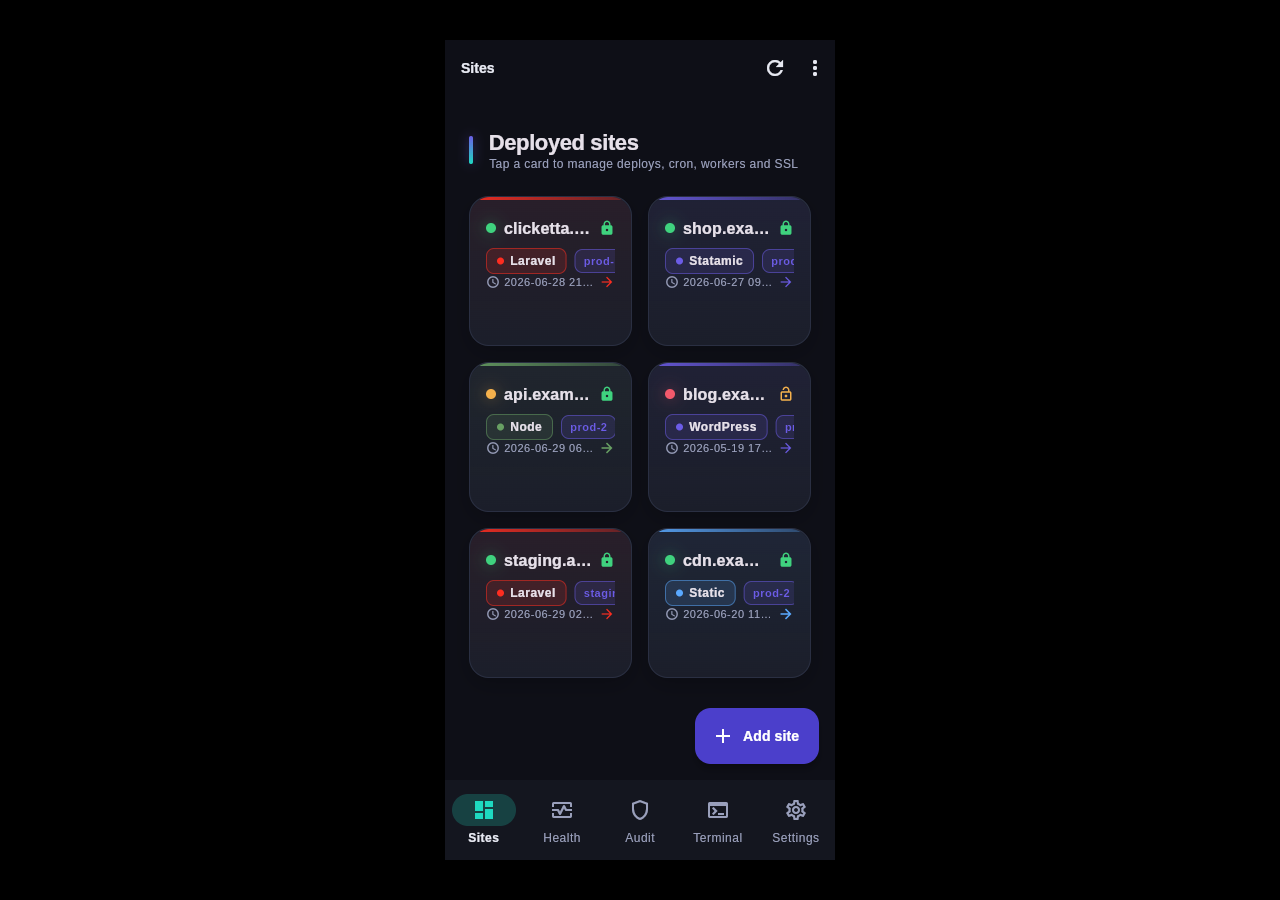
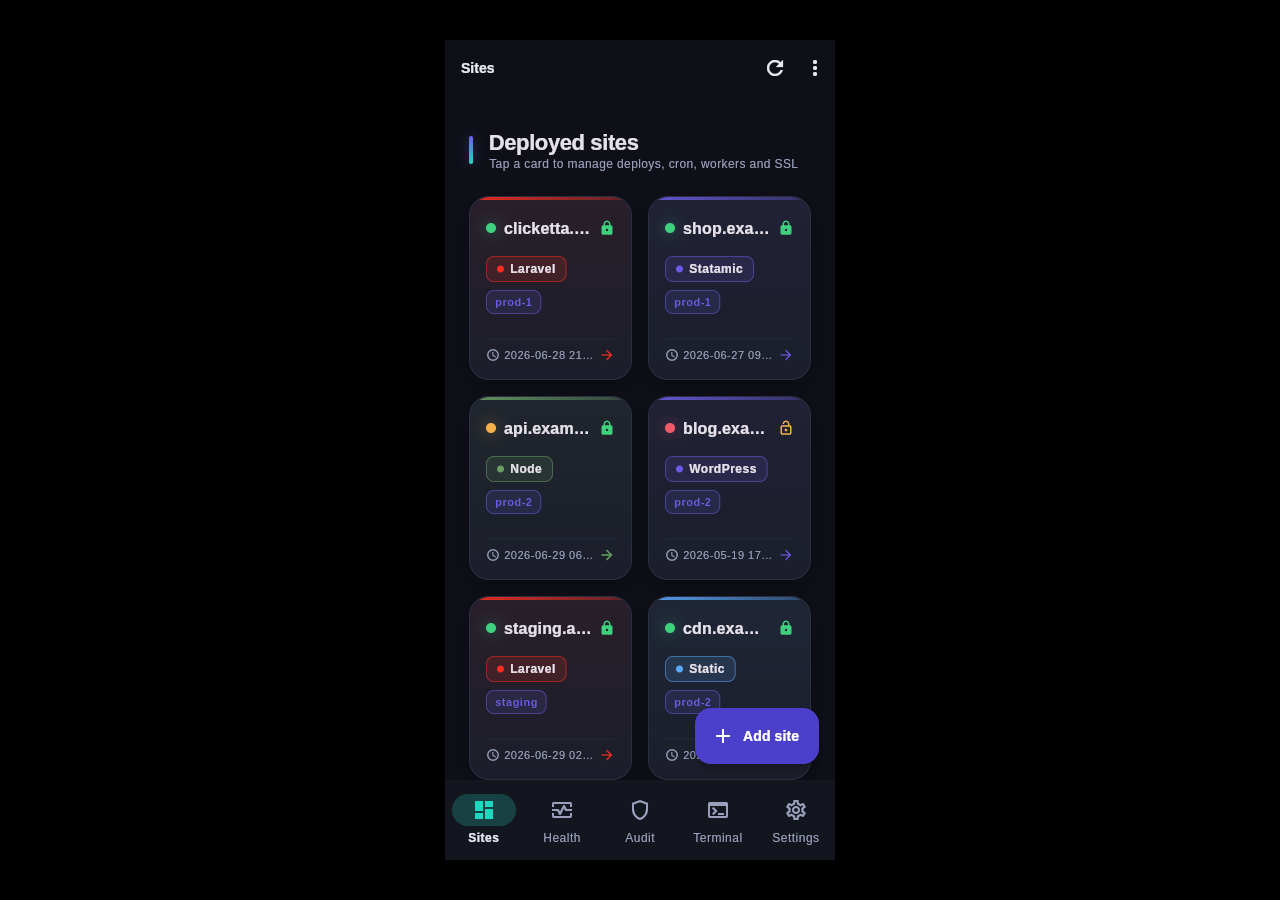
app: roomier dashboard cards (fix cramped phone layout)
The 2-up phone cards looked squished: a fixed 150px cell plus a scrolling
ChipRow that clipped the server pill off-edge. Give cells responsive height
(184 on phone, 158 elsewhere), let the framework + server chips wrap to a
second line instead of clipping, bolden the domain, and add a divider above
the last-deploy row for breathing room. Desktop keeps chips inline.

Claude-Session: https://claude.ai/code/session_014SAkRiggDwfXRUAhogKMJ4

Changed region(s): [[0.375, 0.2489, 0.6562, 0.84]]

diff --git a/app/lib/screens/dashboard_screen.dart b/app/lib/screens/dashboard_screen.dart
@@ -11,7 +11,6 @@ import '../theme/app_theme.dart';
 import '../theme/breakpoints.dart';
 import '../transport/cli_event.dart';
 import '../widgets/app_button.dart';
-import '../widgets/chip_row.dart';
 import '../widgets/framework_chip.dart';
 import '../widgets/glass_card.dart';
 import '../widgets/section_header.dart';
@@ -215,12 +214,14 @@ class _Grid extends StatelessWidget {
           itemCount: sites.length,
           // Fluidly reflows: cards cap at ~320px wide so a phone shows 2,
           // a tablet 3, and a wide desktop 4+ — resizing the window reflows
-          // and resizes cards continuously, with no fixed widths.
-          gridDelegate: const SliverGridDelegateWithMaxCrossAxisExtent(
+          // and resizes cards continuously, with no fixed widths. Phone cells
+          // are taller so the 2-up cards have vertical breathing room (chips
+          // can wrap) instead of cramming everything into a short box.
+          gridDelegate: SliverGridDelegateWithMaxCrossAxisExtent(
             maxCrossAxisExtent: kSiteCardMaxExtent,
             mainAxisSpacing: Insets.md,
             crossAxisSpacing: Insets.md,
-            mainAxisExtent: 150,
+            mainAxisExtent: context.isPhone ? 184 : 158,
           ),
           itemBuilder: (BuildContext context, int i) {
             // Entrances settle quickly so screenshots never catch mid-animation.
@@ -265,70 +266,80 @@ class _SiteCard extends StatelessWidget {
                 ),
               ),
             ),
-            Padding(
-              padding: const EdgeInsets.all(Insets.md),
-              child: Column(
-                crossAxisAlignment: CrossAxisAlignment.start,
-                children: <Widget>[
-                  Row(
-                    children: <Widget>[
-                      StatusDot(health: site.health),
-                      const SizedBox(width: Insets.sm),
-                      Expanded(
-                        child: Hero(
-                          tag: 'site-title-${site.domain}',
-                          child: Material(
-                            type: MaterialType.transparency,
-                            child: Text(
-                              site.domain,
-                              style: theme.textTheme.titleMedium,
-                              overflow: TextOverflow.ellipsis,
-                              maxLines: 1,
+            Expanded(
+              child: Padding(
+                padding: const EdgeInsets.all(Insets.md),
+                child: Column(
+                  crossAxisAlignment: CrossAxisAlignment.start,
+                  children: <Widget>[
+                    Row(
+                      children: <Widget>[
+                        StatusDot(health: site.health),
+                        const SizedBox(width: Insets.sm),
+                        Expanded(
+                          child: Hero(
+                            tag: 'site-title-${site.domain}',
+                            child: Material(
+                              type: MaterialType.transparency,
+                              child: Text(
+                                site.domain,
+                                style: theme.textTheme.titleMedium?.copyWith(
+                                  fontWeight: FontWeight.w700,
+                                ),
+                                overflow: TextOverflow.ellipsis,
+                                maxLines: 1,
+                              ),
                             ),
                           ),
                         ),
-                      ),
-                      const SizedBox(width: Insets.xs),
-                      _TlsBadge(tls: site.tls),
-                    ],
-                  ),
-                  const SizedBox(height: Insets.sm),
-                  // Scrollable so the framework + server chips never overflow
-                  // a narrow 2-up card; least-important chip slides off-edge.
-                  ChipRow(
-                    children: <Widget>[
-                      FrameworkChip(framework: site.framework),
-                      _Pill(label: site.server, color: theme.colorScheme.primary),
-                    ],
-                  ),
-                  const Spacer(),
-                  Row(
-                    children: <Widget>[
-                      Icon(
-                        Icons.schedule,
-                        size: 14,
-                        color: theme.colorScheme.onSurfaceVariant,
-                      ),
-                      const SizedBox(width: Insets.xs),
-                      Expanded(
-                        child: Text(
-                          site.lastDeploy ?? 'never deployed',
-                          style: theme.textTheme.labelSmall?.copyWith(
-                            color: theme.colorScheme.onSurfaceVariant,
-                          ),
-                          overflow: TextOverflow.ellipsis,
-                          maxLines: 1,
+                        const SizedBox(width: Insets.xs),
+                        _TlsBadge(tls: site.tls),
+                      ],
+                    ),
+                    const SizedBox(height: Insets.md),
+                    // Wrap (not scroll) inside a fixed grid cell so the
+                    // framework + server chips stack to a second line on a
+                    // narrow 2-up card instead of being clipped off-edge.
+                    Wrap(
+                      spacing: Insets.sm,
+                      runSpacing: Insets.sm,
+                      children: <Widget>[
+                        FrameworkChip(framework: site.framework),
+                        _Pill(
+                          label: site.server,
+                          color: theme.colorScheme.primary,
                         ),
-                      ),
-                      const SizedBox(width: Insets.xs),
-                      Icon(
-                        Icons.arrow_forward,
-                        size: 16,
-                        color: accent,
-                      ),
-                    ],
-                  ),
-                ],
+                      ],
+                    ),
+                    const Spacer(),
+                    Divider(
+                      height: Insets.md,
+                      color: theme.colorScheme.outline.withValues(alpha: 0.4),
+                    ),
+                    Row(
+                      children: <Widget>[
+                        Icon(
+                          Icons.schedule,
+                          size: 14,
+                          color: theme.colorScheme.onSurfaceVariant,
+                        ),
+                        const SizedBox(width: Insets.xs),
+                        Expanded(
+                          child: Text(
+                            site.lastDeploy ?? 'never deployed',
+                            style: theme.textTheme.labelSmall?.copyWith(
+                              color: theme.colorScheme.onSurfaceVariant,
+                            ),
+                            overflow: TextOverflow.ellipsis,
+                            maxLines: 1,
+                          ),
+                        ),
+                        const SizedBox(width: Insets.xs),
+                        Icon(Icons.arrow_forward, size: 16, color: accent),
+                      ],
+                    ),
+                  ],
+                ),
               ),
             ),
           ],
@@ -389,11 +400,11 @@ class _LoadingGrid extends StatelessWidget {
     return GridView.builder(
       padding: const EdgeInsets.all(Insets.lg),
       itemCount: 6,
-      gridDelegate: const SliverGridDelegateWithMaxCrossAxisExtent(
+      gridDelegate: SliverGridDelegateWithMaxCrossAxisExtent(
         maxCrossAxisExtent: kSiteCardMaxExtent,
         mainAxisSpacing: Insets.md,
         crossAxisSpacing: Insets.md,
-        mainAxisExtent: 150,
+        mainAxisExtent: context.isPhone ? 184 : 158,
       ),
       itemBuilder: (BuildContext context, int i) {
         return Container(